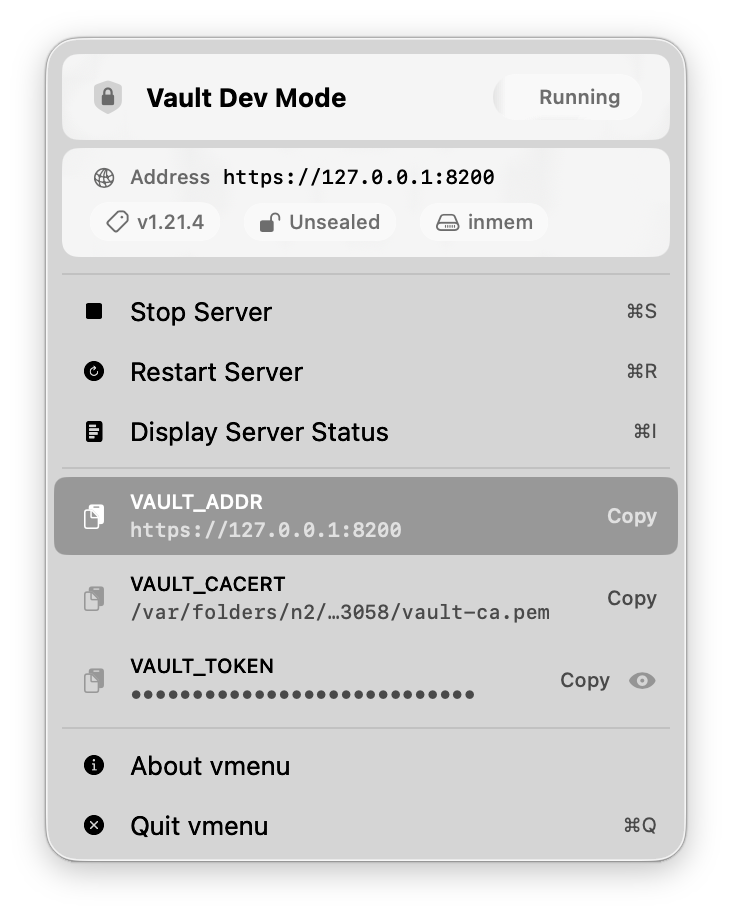
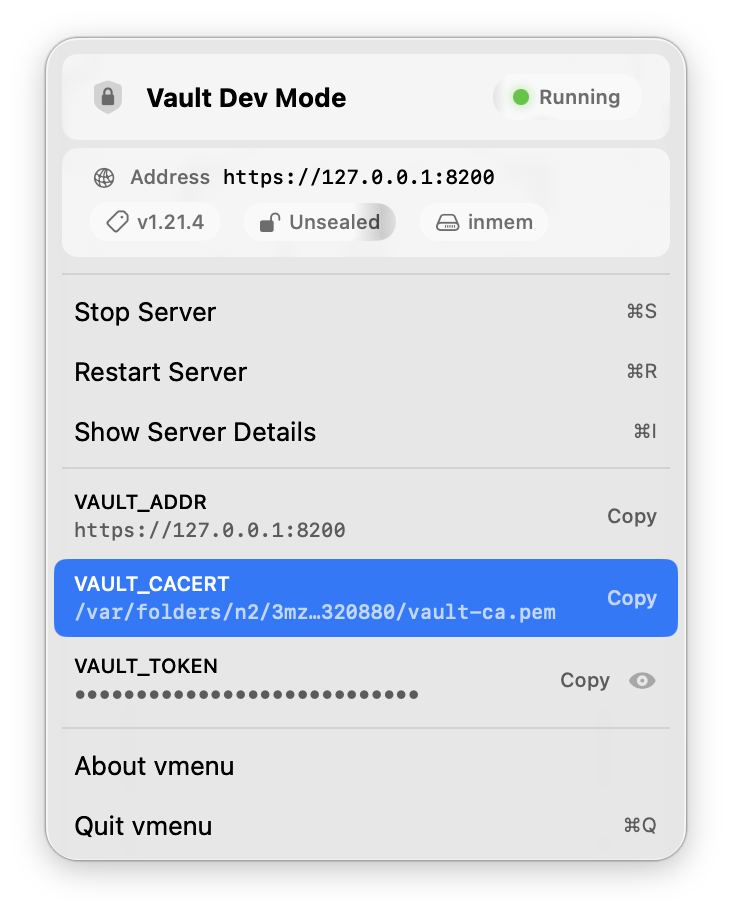
feat: update screenshots

diff --git a/VmenuViews.swift b/VmenuViews.swift
@@ -106,11 +106,28 @@ extension View {
 
 struct MenuRowButton: View {
   let title: String
-  var shortcut: String? = nil
+  /// The key that, combined with `modifiers`, triggers the button. The on-screen
+  /// shortcut glyph is derived from these so the hint can never drift from the
+  /// binding that actually fires the action.
+  var key: KeyEquivalent? = nil
+  var modifiers: EventModifiers = .command
   let action: () -> Void
 
   @State private var isHovered = false
   @Environment(\.isEnabled) private var isEnabled
+
+  /// Human-readable glyph (e.g. "⌘S") for the trailing hint, or `nil` when the
+  /// row has no keyboard shortcut.
+  private var shortcutLabel: String? {
+    guard let key else { return nil }
+    var label = ""
+    if modifiers.contains(.control) { label += "⌃" }
+    if modifiers.contains(.option) { label += "⌥" }
+    if modifiers.contains(.shift) { label += "⇧" }
+    if modifiers.contains(.command) { label += "⌘" }
+    label += String(key.character).uppercased()
+    return label
+  }
 
   var body: some View {
     Button(action: action) {
@@ -118,8 +135,8 @@ struct MenuRowButton: View {
         Text(title)
           .font(.body)
         Spacer()
-        if let shortcut {
-          Text(shortcut)
+        if let shortcutLabel {
+          Text(shortcutLabel)
             .font(.caption)
             .foregroundStyle(.secondary)
         }
@@ -139,6 +156,7 @@ struct MenuRowButton: View {
     }
     .buttonStyle(.plain)
     .focusable(false)
+    .keyboardShortcut(key.map { KeyboardShortcut($0, modifiers: modifiers) })
     .opacity(isEnabled ? 1.0 : 0.4)
     .onHover { hovering in
       isHovered = hovering
@@ -496,7 +514,7 @@ struct VaultMenuView: View {
         menuButton(
           title: String(
             localized: "Quit vmenu", comment: "Menu button to quit the application"),
-          shortcut: "⌘Q"
+          key: "q"
         ) {
           NSApplication.shared.terminate(nil)
         }
@@ -797,7 +815,7 @@ extension VaultMenuView {
             localized: "Stop Server", comment: "Menu button to stop the Vault server")
           : String(
             localized: "Start Server", comment: "Menu button to start the Vault server"),
-        shortcut: "⌘S"
+        key: "s"
       ) {
         if vaultManager.isRunning {
           vaultManager.stopVault()
@@ -810,7 +828,7 @@ extension VaultMenuView {
       menuButton(
         title: String(
           localized: "Restart Server", comment: "Menu button to restart the Vault server"),
-        shortcut: "⌘R"
+        key: "r"
       ) {
         vaultManager.restartVault()
       }
@@ -821,7 +839,7 @@ extension VaultMenuView {
           localized: "Show Server Details",
           comment: "Menu button to open the status window"
         ),
-        shortcut: "⌘I"
+        key: "i"
       ) {
         vaultManager.fetchStatus()
       }
@@ -905,7 +923,7 @@ extension VaultMenuView {
       menuButton(
         title: String(
           localized: "Quit vmenu", comment: "Menu button to quit the application"),
-        shortcut: "⌘Q"
+        key: "q"
       ) {
         NSApplication.shared.terminate(nil)
       }
@@ -916,10 +934,11 @@ extension VaultMenuView {
 
   func menuButton(
     title: String,
-    shortcut: String? = nil,
+    key: KeyEquivalent? = nil,
+    modifiers: EventModifiers = .command,
     action: @escaping () -> Void
   ) -> some View {
-    MenuRowButton(title: title, shortcut: shortcut, action: action)
+    MenuRowButton(title: title, key: key, modifiers: modifiers, action: action)
   }
 }
 
